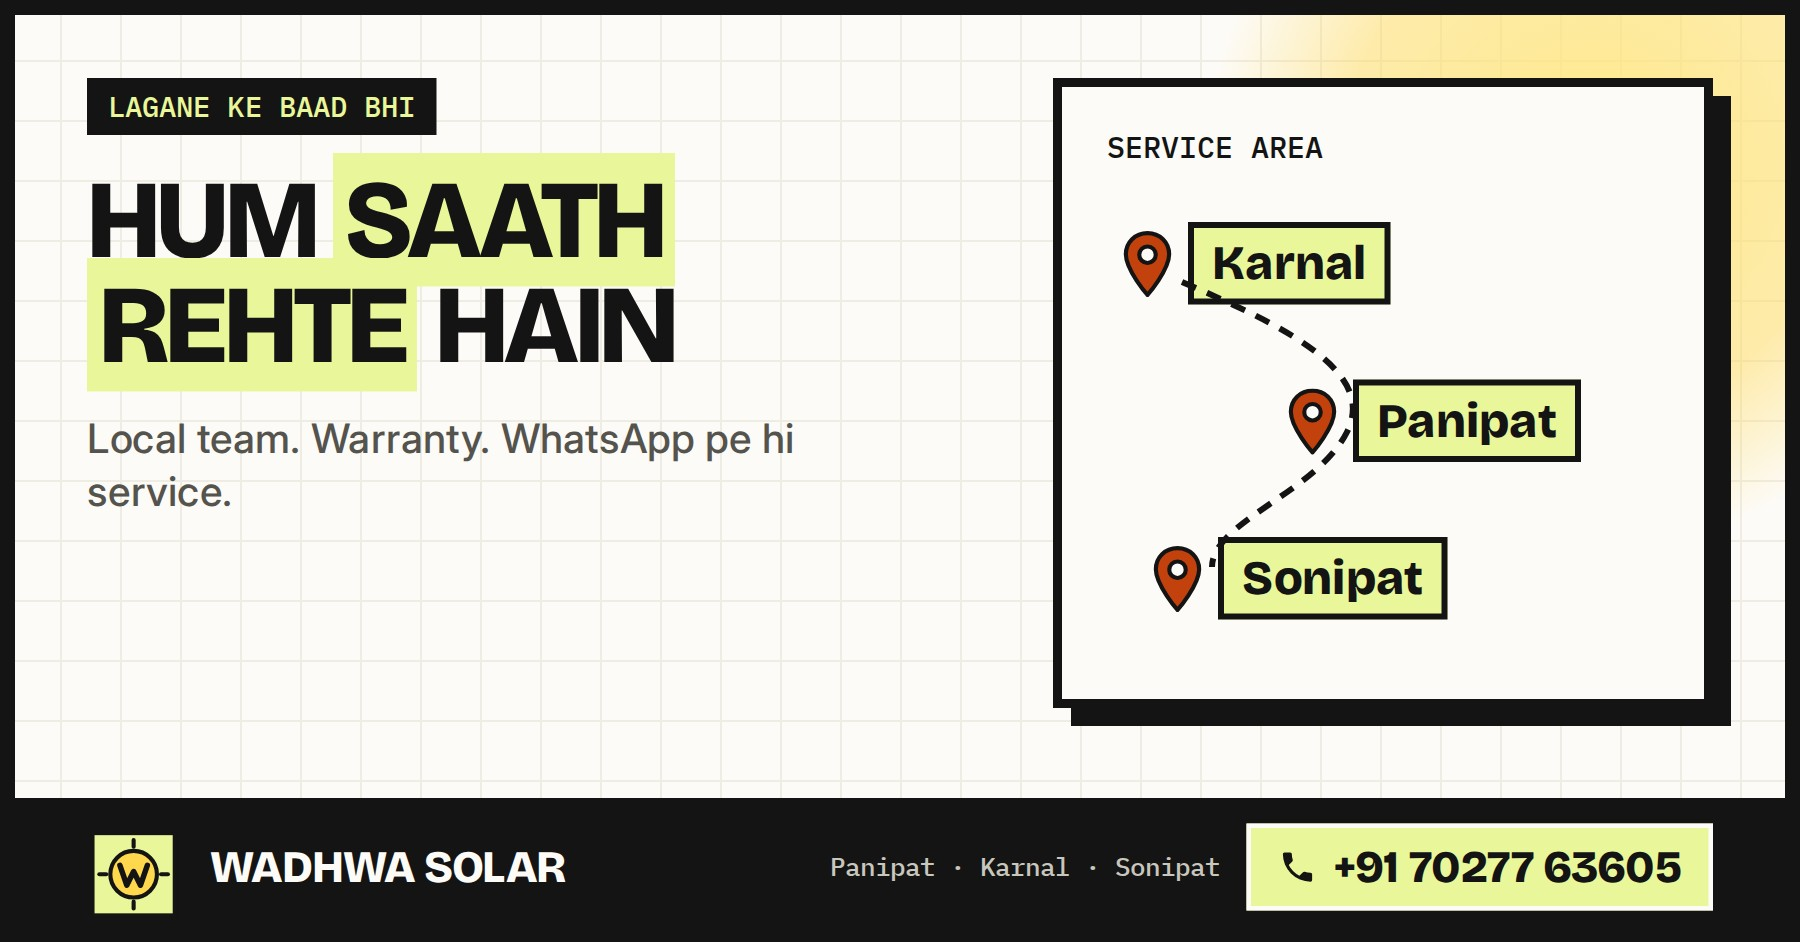
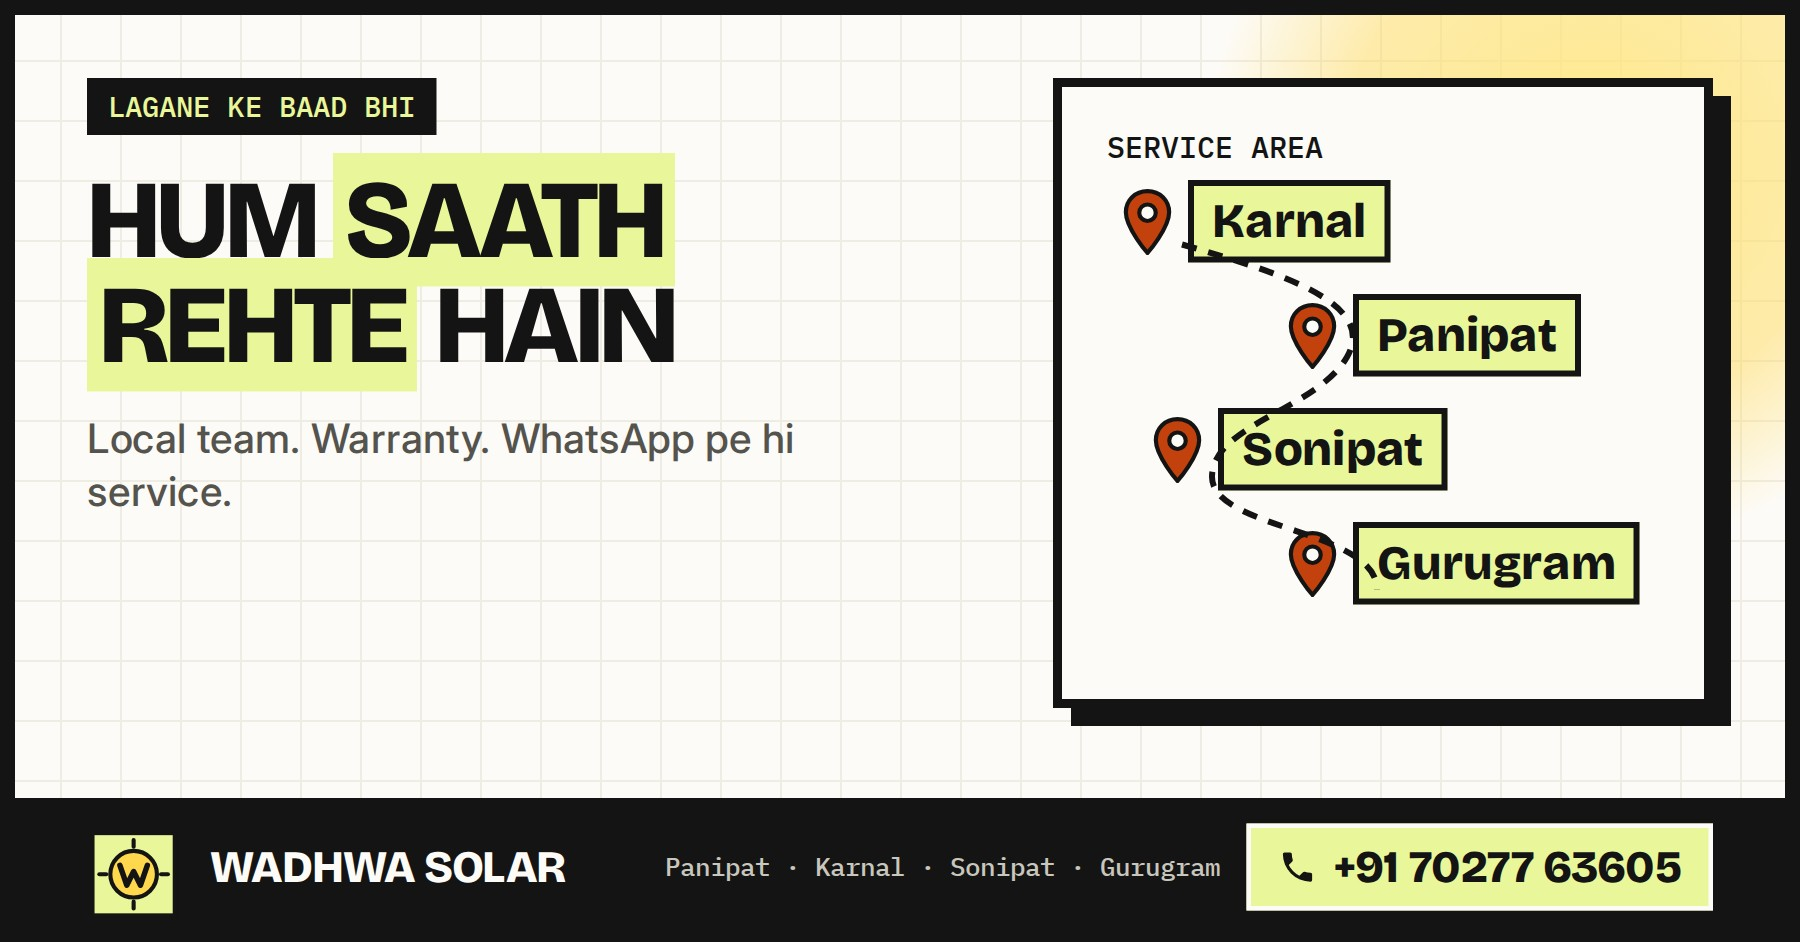
Add files via upload

Changed region(s): [[0.6222, 0.1847, 0.9333, 0.6773], [0.3733, 0.8928, 0.6844, 0.9544]]

diff --git a/index.html b/index.html
@@ -4,8 +4,8 @@
 <meta charset="utf-8">
 <meta name="color-scheme" content="light">
 <meta name="viewport" content="width=device-width,initial-scale=1">
-<title>Wadhwa Solar — make your roof pay the bijli bill | Rooftop solar in Panipat, Karnal, Sonipat</title>
-<meta name="description" content="Rooftop solar installation and maintenance in Panipat, Karnal and Sonipat. Free survey, PM Surya Ghar subsidy handled, 25-year panel warranty.">
+<title>Wadhwa Solar — make your roof pay the bijli bill | Rooftop solar in Panipat, Karnal, Sonipat, Gurugram</title>
+<meta name="description" content="Rooftop solar installation and maintenance in Panipat, Karnal, Sonipat and Gurugram. Free survey, PM Surya Ghar subsidy handled, 25-year panel warranty.">
 <link rel="icon" href="logo.svg">
 <link rel="preconnect" href="https://fonts.googleapis.com">
 <link rel="preconnect" href="https://fonts.gstatic.com" crossorigin>
@@ -51,7 +51,7 @@
   <div class="hero-grid">
     <div class="scene-copy">
     <h1 data-split>Make your roof pay the bijli bill.</h1>
-    <p class="lede">Rooftop solar installed properly and looked after for years, for homes, shops and factories across Panipat, Karnal and Sonipat.</p>
+    <p class="lede"><b style="display:inline-block;background:var(--lime);padding:6px 12px;border:2px solid var(--ink);margin-bottom:10px">Pay by bank EMI — often less than your bill today.</b><br>Rooftop solar installed properly and looked after for years, for homes, shops and factories across Panipat, Karnal, Sonipat and Gurugram.</p>
     <div class="btnrow">
       <a class="btn solid" href="contact.html">Book a free survey</a>
       <a class="btn ghost" href="subsidy.html">See the subsidy</a>
@@ -79,6 +79,7 @@
           <div><span>Project cost</span><span id="cost">&#8377;2,04,000</span></div>
           <div><span>Government subsidy</span><span id="sub">&#8377;78,000</span></div>
           <div class="hi"><span>You pay about</span><span id="net">&#8377;1,26,000</span></div>
+          <div class="hi"><span>Or bank EMI, 10 years</span><span id="emi">&#8377;1,160/mo</span></div>
           <div><span>Money back in</span><span id="pay">3.9 years</span></div>
           <div><span>Saved over 25 years</span><span id="save25">&#8377;6,84,000</span></div>
         </div>
@@ -107,6 +108,17 @@
   </div>
 </section>
 
+<section>
+  <div class="wrap reveal">
+    <p class="eyebrow">Why homes here pick us</p>
+    <h2>Easy to pay for. Built for aandhi. Fixed by people nearby.</h2>
+    <div class="cols" style="margin-top:26px">
+      <div class="card"><i class="ico">&#8377;</i><p class="tag">EMI, not upfront</p><h3>Pay monthly, like a bill</h3><p>PM Surya Ghar bank loans start at 5.75% a year for up to 10 years, and the subsidy can be paid into the loan to cut the EMI. We help you with the loan application. For many homes the EMI is lower than today's electricity bill.</p></div>
+      <div class="card"><i class="ico">&#9650;</i><p class="tag">Storm-ready structure</p><h3>Built for aandhi and monsoon wind</h3><p>Galvanised steel structure, bolted and anchored to your roof, sized for Haryana's summer storms. We show you the structure and fixing before a single panel goes up, and send photos of every joint.</p></div>
+      <div class="card"><i class="ico">&#9742;</i><p class="tag">Local team</p><h3>Service from people nearby</h3><p>We only work in Panipat, Karnal, Sonipat and Gurugram, so help is close. Fault call-outs are handled by the same team that installed your system, with a visit within 48 hours.</p></div>
+    </div>
+  </div>
+</section>
 <section class="band">
   <div class="wrap reveal">
     <p class="eyebrow" style="text-align:center">The sun's day, and yours</p>
@@ -126,7 +138,7 @@
     <div class="arc-steps">
       <div><h3>1. Free survey</h3><p>We measure the shadow-free area, read your bill and check the roof structure.</p></div>
       <div><h3>2. Written quote</h3><p>Size, brands, price, subsidy and expected units. On paper, not on a phone call.</p></div>
-      <div><h3>3. Approvals</h3><p>Portal registration and UHBVN feasibility approval, filed by us.</p></div>
+      <div><h3>3. Approvals</h3><p>Portal registration and UHBVN / DHBVN feasibility approval, filed by us.</p></div>
       <div><h3>4. Installation</h3><p>Structure, modules, inverter, cabling and earthing. Two to four days for a home.</p></div>
       <div><h3>5. Net meter</h3><p>The DISCOM fits the bidirectional meter and inspects. Your meter starts running backwards.</p></div>
       <div><h3>6. Subsidy and care</h3><p>Subsidy lands in your bank account. We stay on for cleaning and service.</p></div>
@@ -141,7 +153,7 @@
       <div><strong data-count="78000" data-pre="&#8377;">&#8377;78,000</strong><span>maximum central subsidy</span></div>
       <div><strong data-count="4.5" data-dec="1">4.5</strong><span>units a day per kW here</span></div>
       <div><strong data-count="25" data-suf=" yr">25 yr</strong><span>panel performance warranty</span></div>
-      <div><strong data-count="3">3</strong><span>districts, covered end to end</span></div>
+      <div><strong data-count="4">4</strong><span>districts, covered end to end</span></div>
     </div>
   </div>
 </section>
@@ -149,11 +161,12 @@
 <section>
   <div class="wrap reveal">
     <p class="eyebrow">Where we work</p>
-    <h2>Three districts, covered end to end</h2>
-    <div class="cols" style="margin-top:26px">
+    <h2>Four districts, covered end to end</h2>
+    <div class="cols two" style="margin-top:26px">
       <div class="card"><h3>Panipat</h3><p>Model Town, Sectors 11, 12, 13 and 25, Assandh Road, GT Road belt, Israna, Samalkha, Madlauda.</p></div>
       <div class="card"><h3>Karnal</h3><p>Sectors 6 to 13, Kunjpura Road, Ramnagar, Nilokheri, Gharaunda, Indri, Assandh, Taraori.</p></div>
       <div class="card"><h3>Sonipat</h3><p>Model Town, Sectors 14 and 15, Kundli, Rai, Murthal, Ganaur, Gohana, Kharkhoda.</p></div>
+      <div class="card"><h3>Gurugram</h3><p>DLF Phases 1 to 5, Sushant Lok, South City, Sohna Road, Golf Course Road, New Gurugram sectors, Manesar.</p></div>
     </div>
     <p style="margin-top:22px">Village not on the list? Call anyway. If we can reach you in a day, we will serve you.</p>
   </div>
@@ -177,7 +190,7 @@
     <div>
       <strong style="color:#141414">Wadhwa Solar</strong><br>
       Rooftop solar installation and maintenance<br>
-      Panipat, Karnal and Sonipat, Haryana
+      Panipat, Karnal, Sonipat and Gurugram, Haryana
     </div>
     <div>
       <a href="tel:+917027763605">+91 70277 63605</a><br>

diff --git a/services.html b/services.html
@@ -5,7 +5,7 @@
 <meta name="color-scheme" content="light">
 <meta name="viewport" content="width=device-width,initial-scale=1">
 <title>Services — Wadhwa Solar</title>
-<meta name="description" content="Rooftop solar installation, commercial plants, annual maintenance and repairs in Panipat, Karnal and Sonipat.">
+<meta name="description" content="Rooftop solar installation, commercial plants, annual maintenance and repairs in Panipat, Karnal, Sonipat and Gurugram.">
 <link rel="icon" href="logo.svg">
 <link rel="preconnect" href="https://fonts.googleapis.com">
 <link rel="preconnect" href="https://fonts.gstatic.com" crossorigin>
@@ -50,7 +50,7 @@
   <span class="coin c1">&#8377;</span><span class="coin c2">&#8377;</span><span class="coin c3">&#8377;</span><span class="coin c4">&#8377;</span>
   <div class="scene-copy">
     <h1 data-split>From the first survey to the tenth cleaning.</h1>
-    <p class="lede">We do one thing: rooftop solar in Panipat, Karnal and Sonipat. Supply, install, connect to the grid, and look after it.</p>
+    <p class="lede">We do one thing: rooftop solar in Panipat, Karnal, Sonipat and Gurugram. Supply, install, connect to the grid, and look after it.</p>
     <div class="btnrow"><a class="btn solid" href="contact.html">Book a free survey</a></div>
   </div>
 </section>
@@ -62,7 +62,7 @@
       <div class="card"><i class="ico">&#9889;</i><p class="tag">Commercial</p><h3>10 kW to 500 kW plants</h3><p>For textile and handloom units, cold stores, schools, hotels, hospitals and petrol pumps. Load profiling, structure design for large sheds, and a payback report with accelerated depreciation worked in.</p></div>
       <div class="card"><i class="ico">&#128295;</i><p class="tag">Maintenance</p><h3>Annual maintenance plans</h3><p>Scheduled panel cleaning, inverter and string checks, torque and thermal inspection of joints, and a generation review against expected output. We take on systems installed by other vendors too.</p></div>
       <div class="card"><i class="ico">&#128736;</i><p class="tag">Repairs</p><h3>Fault call-outs and revivals</h3><p>Dead inverters, tripping systems, cracked modules, water in junction boxes, or generation that quietly halved. We diagnose first and tell you what is actually worth replacing.</p></div>
-      <div class="card"><i class="ico">&#128220;</i><p class="tag">Paperwork</p><h3>Subsidy and net metering</h3><p>Portal registration, UHBVN application, feasibility approval, net meter, inspection and the subsidy claim. You sign, we chase.</p></div>
+      <div class="card"><i class="ico">&#128220;</i><p class="tag">Paperwork</p><h3>Subsidy and net metering</h3><p>Portal registration, UHBVN / DHBVN application, feasibility approval, net meter, inspection and the subsidy claim. You sign, we chase.</p></div>
       <div class="card"><i class="ico">&#128267;</i><p class="tag">Add-ons</p><h3>Batteries and solar pumps</h3><p>Lithium or tubular backup for long-cut areas, and solar pump sets for tubewells where grid supply is patchy.</p></div>
     </div>
   </div>
@@ -104,7 +104,7 @@
     <div class="arc-steps">
       <div><h3>1. Free survey</h3><p>We measure the shadow-free area, read your bill and check the roof structure.</p></div>
       <div><h3>2. Written quote</h3><p>Size, brands, price, subsidy and expected units. On paper, not on a phone call.</p></div>
-      <div><h3>3. Approvals</h3><p>Portal registration and UHBVN feasibility approval, filed by us.</p></div>
+      <div><h3>3. Approvals</h3><p>Portal registration and UHBVN / DHBVN feasibility approval, filed by us.</p></div>
       <div><h3>4. Installation</h3><p>Structure, modules, inverter, cabling and earthing. Two to four days for a home.</p></div>
       <div><h3>5. Net meter</h3><p>The DISCOM fits the bidirectional meter and inspects. Your meter starts running backwards.</p></div>
       <div><h3>6. Subsidy and care</h3><p>Subsidy lands in your bank account. We stay on for cleaning and service.</p></div>
@@ -131,7 +131,7 @@
     <div>
       <strong style="color:#141414">Wadhwa Solar</strong><br>
       Rooftop solar installation and maintenance<br>
-      Panipat, Karnal and Sonipat, Haryana
+      Panipat, Karnal, Sonipat and Gurugram, Haryana
     </div>
     <div>
       <a href="tel:+917027763605">+91 70277 63605</a><br>

diff --git a/about.html b/about.html
@@ -5,7 +5,7 @@
 <meta name="color-scheme" content="light">
 <meta name="viewport" content="width=device-width,initial-scale=1">
 <title>About — Wadhwa Solar</title>
-<meta name="description" content="A local rooftop solar installation and maintenance company for Panipat, Karnal and Sonipat.">
+<meta name="description" content="A local rooftop solar installation and maintenance company for Panipat, Karnal, Sonipat and Gurugram.">
 <link rel="icon" href="logo.svg">
 <link rel="preconnect" href="https://fonts.googleapis.com">
 <link rel="preconnect" href="https://fonts.gstatic.com" crossorigin>
@@ -50,7 +50,7 @@
   <span class="coin c1">&#8377;</span><span class="coin c2">&#8377;</span><span class="coin c3">&#8377;</span><span class="coin c4">&#8377;</span>
   <div class="scene-copy">
     <h1 data-split>The people who still answer in year three.</h1>
-    <p class="lede">Plenty of people sell panels here. Almost nobody services them. We install rooftop solar across three districts, then stay on as the people who maintain it.</p>
+    <p class="lede">Plenty of people sell panels here. Almost nobody services them. We install rooftop solar across four districts, then stay on as the people who maintain it.</p>
     <div class="btnrow"><a class="btn solid" href="contact.html">Talk to us</a></div>
   </div>
 </section>
@@ -59,7 +59,7 @@
   <div class="wrap reveal">
     <p class="eyebrow">How we work</p>
     <h2>Four things we do differently</h2>
-    <div class="split"><div><span class="idx">01</span></div><div><h3>Only three districts</h3><p>Panipat, Karnal, Sonipat. It keeps response times short and means our engineers already know your DISCOM office, your feeder and your roof type.</p></div></div>
+    <div class="split"><div><span class="idx">01</span></div><div><h3>Only four districts</h3><p>Panipat, Karnal, Sonipat, Gurugram. It keeps response times short and means our engineers already know your DISCOM office, your feeder and your roof type.</p></div></div>
     <div class="split"><div><span class="idx">02</span></div><div><h3>Quotes in writing</h3><p>Brand names, wattage, inverter model, structure specification, expected monthly units. If a competitor will not put that on paper, that is worth noticing.</p></div></div>
     <div class="split"><div><span class="idx">03</span></div><div><h3>Built for this weather</h3><p>Galvanised structures rated for high wind, UV-rated DC cable in conduit, proper earthing and lightning arrestors. Cheap structures rust in three summers.</p></div></div>
     <div class="split"><div><span class="idx">04</span></div><div><h3>We revive abandoned systems</h3><p>A good share of our work is fixing rooftops whose installer vanished. If yours stopped producing, we will look at it.</p></div></div>
@@ -84,10 +84,11 @@
   <div class="wrap reveal">
     <p class="eyebrow">Coverage</p>
     <h2>Areas we cover</h2>
-    <div class="cols" style="margin-top:24px">
+    <div class="cols two" style="margin-top:24px">
       <div class="card"><h3>Panipat</h3><p>Model Town, Sectors 11, 12, 13 and 25, Assandh Road, GT Road belt, Israna, Samalkha, Madlauda, Bapoli.</p></div>
       <div class="card"><h3>Karnal</h3><p>Sectors 6, 7, 8, 9 and 13, Kunjpura Road, Ramnagar, Nilokheri, Gharaunda, Indri, Assandh, Taraori.</p></div>
       <div class="card"><h3>Sonipat</h3><p>Model Town, Sectors 14 and 15, Kundli, Rai, Murthal, Ganaur, Gohana, Kharkhoda.</p></div>
+      <div class="card"><h3>Gurugram</h3><p>DLF Phases 1 to 5, Sushant Lok, South City, Sohna Road, Golf Course Road, New Gurugram sectors, Manesar.</p></div>
     </div>
   </div>
 </section>
@@ -120,7 +121,7 @@
     <div>
       <strong style="color:#141414">Wadhwa Solar</strong><br>
       Rooftop solar installation and maintenance<br>
-      Panipat, Karnal and Sonipat, Haryana
+      Panipat, Karnal, Sonipat and Gurugram, Haryana
     </div>
     <div>
       <a href="tel:+917027763605">+91 70277 63605</a><br>

diff --git a/privacy.html b/privacy.html
@@ -55,7 +55,7 @@
   <div class="wrap legal">
     <p class="updated">Last updated: 21 September 2026</p>
     <h1 style="font-size:clamp(2rem,4.4vw,3rem)">Privacy Policy</h1>
-    <p>Wadhwa Solar ("we", "us") installs and maintains rooftop solar systems in Panipat, Karnal and Sonipat, Haryana. This policy explains what personal information we collect, why we collect it, and what you can ask us to do with it.</p>
+    <p>Wadhwa Solar ("we", "us") installs and maintains rooftop solar systems in Panipat, Karnal, Sonipat and Gurugram, Haryana. This policy explains what personal information we collect, why we collect it, and what you can ask us to do with it.</p>
     <p>If anything here is unclear, write to <a href="mailto:hello@wadhwasolar.com"><strong>hello@wadhwasolar.com</strong></a> or call <strong>+91 70277 63605</strong>.</p>
 
     <h2>What we collect</h2>
@@ -108,7 +108,7 @@
     <p>We share it only where necessary:</p>
     <ul>
       <li><strong>Government portals and agencies</strong> — pmsuryaghar.gov.in, MNRE and HAREDA, for your subsidy application</li>
-      <li><strong>Your electricity distribution company</strong> — UHBVN, for feasibility approval, net metering and inspection</li>
+      <li><strong>Your electricity distribution company</strong> — UHBVN or DHBVN, for feasibility approval, net metering and inspection</li>
       <li><strong>Service providers we use to run the business</strong> — WhatsApp Business Platform for messaging, and hosting and database providers that store our records securely</li>
       <li><strong>Where the law requires it</strong> — in response to a lawful request from a government authority</li>
     </ul>
@@ -143,7 +143,7 @@
     <h2>Contact</h2>
     <p>
       <strong>Wadhwa Solar</strong><br>
-      Panipat, Karnal and Sonipat, Haryana, India<br>
+      Panipat, Karnal, Sonipat and Gurugram, Haryana, India<br>
       Email: <a href="mailto:hello@wadhwasolar.com">hello@wadhwasolar.com</a><br>
       Phone: <a href="tel:+917027763605">+91 70277 63605</a>
     </p>
@@ -156,7 +156,7 @@
     <div>
       <strong style="color:#141414">Wadhwa Solar</strong><br>
       Rooftop solar installation and maintenance<br>
-      Panipat, Karnal and Sonipat, Haryana
+      Panipat, Karnal, Sonipat and Gurugram, Haryana
     </div>
     <div>
       <a href="tel:+917027763605">+91 70277 63605</a><br>

diff --git a/subsidy.html b/subsidy.html
@@ -83,7 +83,7 @@
       <div>
         <p class="cap">Central government scheme</p>
         <h3>PM Surya Ghar: Muft Bijli Yojana</h3>
-        <p>Launched by the Government of India to put rooftop solar on one crore homes and cut household electricity bills. Wadhwa Solar registers your application on the national portal, files with UHBVN and follows the claim through to the bank transfer.</p>
+        <p>Launched by the Government of India to put rooftop solar on one crore homes and cut household electricity bills. Wadhwa Solar registers your application on the national portal, files with UHBVN or DHBVN and follows the claim through to the bank transfer.</p>
       </div>
     </div>
   </div>
@@ -138,7 +138,7 @@
   <div class="wrap reveal">
     <p class="eyebrow">Documents</p>
     <h2>Four papers, that is all</h2>
-    <div class="split"><div><span class="idx">01</span></div><div><h3>Latest electricity bill</h3><p>In the applicant's name, from UHBVN. Six months of bills help us size the system.</p></div></div>
+    <div class="split"><div><span class="idx">01</span></div><div><h3>Latest electricity bill</h3><p>In the applicant's name, from UHBVN or DHBVN. Six months of bills help us size the system.</p></div></div>
     <div class="split"><div><span class="idx">02</span></div><div><h3>Aadhaar card</h3><p>Linked to the mobile number you will use on the portal.</p></div></div>
     <div class="split"><div><span class="idx">03</span></div><div><h3>Bank passbook or cancelled cheque</h3><p>Aadhaar-seeded account, because the subsidy is a direct transfer.</p></div></div>
     <div class="split"><div><span class="idx">04</span></div><div><h3>Ownership proof or NOC</h3><p>Registry, allotment letter, or a signed no-objection letter from the owner.</p></div></div>
@@ -174,7 +174,7 @@
     <div>
       <strong style="color:#141414">Wadhwa Solar</strong><br>
       Rooftop solar installation and maintenance<br>
-      Panipat, Karnal and Sonipat, Haryana
+      Panipat, Karnal, Sonipat and Gurugram, Haryana
     </div>
     <div>
       <a href="tel:+917027763605">+91 70277 63605</a><br>

diff --git a/contact.html b/contact.html
@@ -64,7 +64,7 @@
       <label for="phone">Phone number</label>
       <input id="phone" type="tel" autocomplete="tel">
       <label for="city">City or village</label>
-      <input id="city" type="text" placeholder="Panipat, Karnal, Sonipat...">
+      <input id="city" type="text" placeholder="Panipat, Karnal, Sonipat, Gurugram...">
       <label for="type">Property type</label>
       <select id="type">
         <option>Home</option><option>Shop or office</option><option>Factory or warehouse</option>
@@ -87,7 +87,7 @@
         <li><a href="mailto:hello@wadhwasolar.com">hello@wadhwasolar.com</a><small>Quotes, tenders and commercial enquiries</small></li>
       </ul>
       <h3 style="margin-top:34px">Service area</h3>
-      <p>Panipat, Karnal and Sonipat districts, including Samalkha, Israna, Gharaunda, Nilokheri, Indri, Assandh, Gohana, Ganaur, Kundli and Murthal.</p>
+      <p>Panipat, Karnal, Sonipat and Gurugram districts, including Samalkha, Israna, Gharaunda, Nilokheri, Indri, Assandh, Gohana, Ganaur, Kundli and Murthal.</p>
       <h3 style="margin-top:26px">Already a customer?</h3>
       <p>For a service visit or a generation problem, call with your system size and installation month handy.</p>
     </div>
@@ -101,7 +101,7 @@
     <div>
       <strong style="color:#141414">Wadhwa Solar</strong><br>
       Rooftop solar installation and maintenance<br>
-      Panipat, Karnal and Sonipat, Haryana
+      Panipat, Karnal, Sonipat and Gurugram, Haryana
     </div>
     <div>
       <a href="tel:+917027763605">+91 70277 63605</a><br>

diff --git a/app.js b/app.js
@@ -85,6 +85,13 @@
       set('cost', money(cost));
       set('sub', kw > 10 ? 'Not applicable' : money(sub));
       set('net', money(net));
+      // PM Surya Ghar bank loan (SBI slabs): 5.75% up to 2L, 7.90% up to 6L, 10 yrs, up to 90% of cost; subsidy prepaid
+      var emiTxt = 'Not applicable';
+      if (kw <= 10) {
+        var loan = Math.min(cost * 0.9, 600000), r = (loan <= 200000 ? 5.75 : 7.90) / 1200, n = 120, P = Math.max(loan - sub, 0);
+        if (P > 0) emiTxt = money(Math.round(P * r * Math.pow(1 + r, n) / (Math.pow(1 + r, n) - 1) / 10) * 10)+ '/mo';
+      }
+      set('emi', emiTxt);
       set('pay', yrs.toFixed(1) + ' years');
       set('save25', money(save * 12 * 25 - net));
       set('beforeLbl', money(b) + ' a month');

diff --git a/data-deletion.html b/data-deletion.html
@@ -88,7 +88,7 @@
     <h2>Contact</h2>
     <p>
       <strong>Wadhwa Solar</strong><br>
-      Panipat, Karnal and Sonipat, Haryana, India<br>
+      Panipat, Karnal, Sonipat and Gurugram, Haryana, India<br>
       Email: <a href="mailto:hello@wadhwasolar.com">hello@wadhwasolar.com</a><br>
       Phone: <a href="tel:+917027763605">+91 70277 63605</a>
     </p>
@@ -102,7 +102,7 @@
     <div>
       <strong style="color:#141414">Wadhwa Solar</strong><br>
       Rooftop solar installation and maintenance<br>
-      Panipat, Karnal and Sonipat, Haryana
+      Panipat, Karnal, Sonipat and Gurugram, Haryana
     </div>
     <div>
       <a href="tel:+917027763605">+91 70277 63605</a><br>
